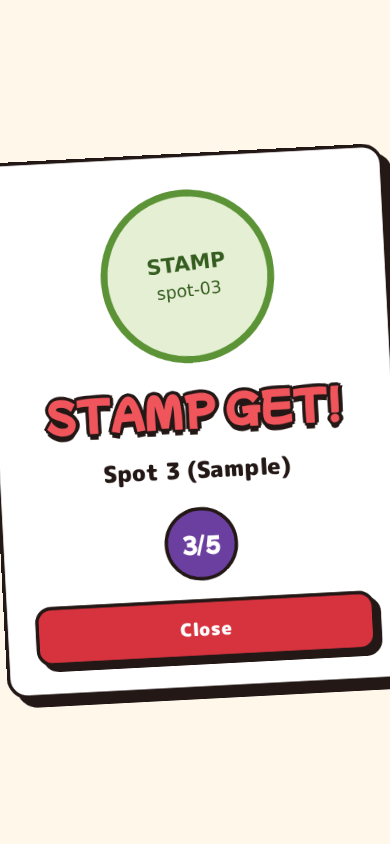
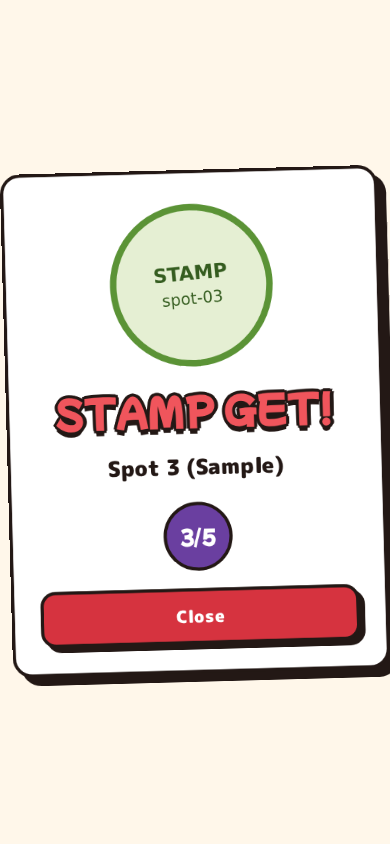
QRの表示サイズを64pxから50pxへ縮小
64pxでも実機で大きかったため、さらに縮小する。25×25マスのQRで
1マスがちょうど2 CSSピクセルになり、境界がぼやけない50pxとする。

Changed region(s): [[0.0, 0.154, 1.0, 0.8626]]

diff --git a/web/test/screenshots/capture.spec.ts b/web/test/screenshots/capture.spec.ts
@@ -183,9 +183,9 @@ test("uses one QR from every empty slot and restores focus after closing", async
       return { back, circle, qr, qrCode, ring: ring ? { dash: ring.getAttribute("stroke-dasharray"), stroke: ring.getAttribute("stroke-width") } : undefined };
     });
     const path = await qr.locator("path").first().getAttribute("d");
-    expect(dimensions).toEqual({ height: 64, width: 64 });
-    expect(geometry.qrCode?.width).toBe(88);
-    expect(geometry.qrCode?.height).toBe(88);
+    expect(dimensions).toEqual({ height: 50, width: 50 });
+    expect(geometry.qrCode?.width).toBe(74);
+    expect(geometry.qrCode?.height).toBe(74);
     expect(Math.abs(((geometry.qr?.left ?? 0) + (geometry.qr?.width ?? 0) / 2) - ((geometry.circle?.left ?? 0) + (geometry.circle?.width ?? 0) / 2))).toBeLessThanOrEqual(0.5);
     expect(Math.abs(((geometry.qr?.top ?? 0) + (geometry.qr?.height ?? 0) / 2) - ((geometry.circle?.top ?? 0) + (geometry.circle?.height ?? 0) / 2))).toBeLessThanOrEqual(0.5);
     expect(geometry.ring).toEqual({ dash: "3 5", stroke: "2.5" });
@@ -300,8 +300,8 @@ test("supports Escape and keeps the enlarged QR circle in view in every supporte
     expect(metrics.circle?.bottom).toBeLessThanOrEqual(metrics.viewportHeight);
     expect(metrics.circle?.top).toBeGreaterThanOrEqual(metrics.header?.bottom ?? 0);
     expect(metrics.back?.top).toBeGreaterThanOrEqual((metrics.header?.bottom ?? 0) + 8);
-    expect(metrics.qr?.width).toBe(64);
-    expect(metrics.qr?.height).toBe(64);
+    expect(metrics.qr?.width).toBe(50);
+    expect(metrics.qr?.height).toBe(50);
     expect(metrics.back?.width).toBeGreaterThanOrEqual(48);
     expect(metrics.back?.height).toBeGreaterThanOrEqual(48);
     await page.keyboard.press("Escape");

diff --git a/web/src/components/QrDialog.tsx b/web/src/components/QrDialog.tsx
@@ -161,7 +161,7 @@ export function QrDialog({ copy, headerHeight, isClosing, onCloseRequest, onClos
       <div aria-hidden="true" className={styles.paper} data-qr-paper="true" />
       <div className={styles.stampCircle} data-qr-stamp-circle="true">
         <StampSlotDottedCircle />
-        <div className={styles.qrCode} data-qr-code-container="true"><QRCodeSVG aria-label="Stamp QR code" includeMargin={false} level="M" size={64} value={token} /></div>
+        <div className={styles.qrCode} data-qr-code-container="true"><QRCodeSVG aria-label="Stamp QR code" includeMargin={false} level="M" size={50} value={token} /></div>
       </div>
       <IconButton className={styles.back} disabled={isClosing} label={copy.backToBook} ref={backRef} type="button" onClick={onCloseRequest}><ArrowLeft aria-hidden="true" size={26} strokeWidth={2.25} /></IconButton>
     </main>

diff --git a/web/src/components/QrDialog.module.css b/web/src/components/QrDialog.module.css
@@ -45,8 +45,8 @@
 
 .qrCode svg {
   display: block;
-  width: 64px;
-  height: 64px;
+  width: 50px;
+  height: 50px;
   image-rendering: pixelated;
 }
 

diff --git a/docs/goals/02-web.md b/docs/goals/02-web.md
@@ -12,7 +12,7 @@ docs/spec.md の4章と7章に従い、web/ に TypeScript + React + Vite で実
 - 初回説明画面に「スタンプはこのブラウザに保存されます。別のアプリやブラウザで開くと最初からになります」を表示する
 - スタンプ帳の「遊び方」「景品交換所の案内」「スタンプが消えた方へ」は、押すとポップアップで説明が開く
 - ゴールページへは、完走後に台紙下部の景品引換券にある「ゴールへ」から開ける
-- QR表示状態は /api/me のトークンを 64×64 CSSピクセル・誤り訂正レベルMで描き、表示中は Screen Wake Lock で画面消灯を抑止する
+- QR表示状態は /api/me のトークンを 50×50 CSSピクセル・誤り訂正レベルMで描き、表示中は Screen Wake Lock で画面消灯を抑止する
 - 4-4 の4つの反映経路（SSE自動再接続、再接続時の再取得、visibilitychange 時の再取得、10秒ポーリング）がすべて実装され、テストで確認されている
 - 押印の受信（SSEと10秒ポーリング）はアプリの最上位で持ち、どのタブにいても押印演出が出る
 - 同じ押印イベントを複数回受け取っても演出は1回だけで、ACK は返す

diff --git a/docs/design.md b/docs/design.md
@@ -207,7 +207,7 @@ flowchart TD
 
 - 拡大後の円は `min(calc(100vw - 32px), calc(100dvh - 160px), 320px)`。真円、surface、SVGの点線（2.5px、`3 5`）を維持し、新しい影や外枠を加えない
 - 画面全体はpaperとし、共通ヘッダー、タブ、台紙の他要素を画面外へ移して操作不能にする。QR表示中はページをスクロールさせない
-- QR本体は **64×64 CSSピクセル**、誤り訂正レベルM、白い余白12px。ズーム中も拡大、縮小、変形、回転をしない
+- QR本体は **50×50 CSSピクセル**、誤り訂正レベルM、白い余白12px。ズーム中も拡大、縮小、変形、回転をしない
 - どの押印欄から開いてもQR値は同じ。拡大状態ではスポット名、番号、特定のスタンプ画像を表示しない
 - 見出し、説明文、手順、Chip、Tag、SpeechBubble、CropMarks、独立したQR用CardやBandは表示しない
 - 戻るアイコンは48×48px以上で円外に置き、QRの白い余白から96px以上離す。`aria-label` は「スタンプ台紙にもどる」／「Back to stamp card」

diff --git a/docs/device-test.md b/docs/device-test.md
@@ -207,7 +207,7 @@ PCブラウザで `http://localhost:8787`（スタンプ帳）と `http://localh
      止まった場合も、ログに「メインループが5秒止まりました」が出て、15秒ほどで映像が戻る
    - [ ] 再起動を繰り返す機体がダッシュボードで「正常」に見えない。カメラのケーブルを外した状態で電源を入れる（通電中に抜き差ししない）と、90秒ほどで「断」になりアラートが出る
 
-2. 筐体に組み込み、**実スマホを通常の輝度のまま**押し当てて、64×64 CSSピクセルのQRが
+2. 筐体に組み込み、**実スマホを通常の輝度のまま**押し当てて、50×50 CSSピクセルのQRが
    安定して読めることを確認する（6-2）。ここでは読み取りの安定性だけを見る。
 3. 数時間連続で稼働させ、発熱とバッテリーの持ちを確認する（6-6、Q-14）。
 4. 残りの機体と予備機にも Step 2〜3 を行う。SDカードを複製した場合は、`config.toml` の
